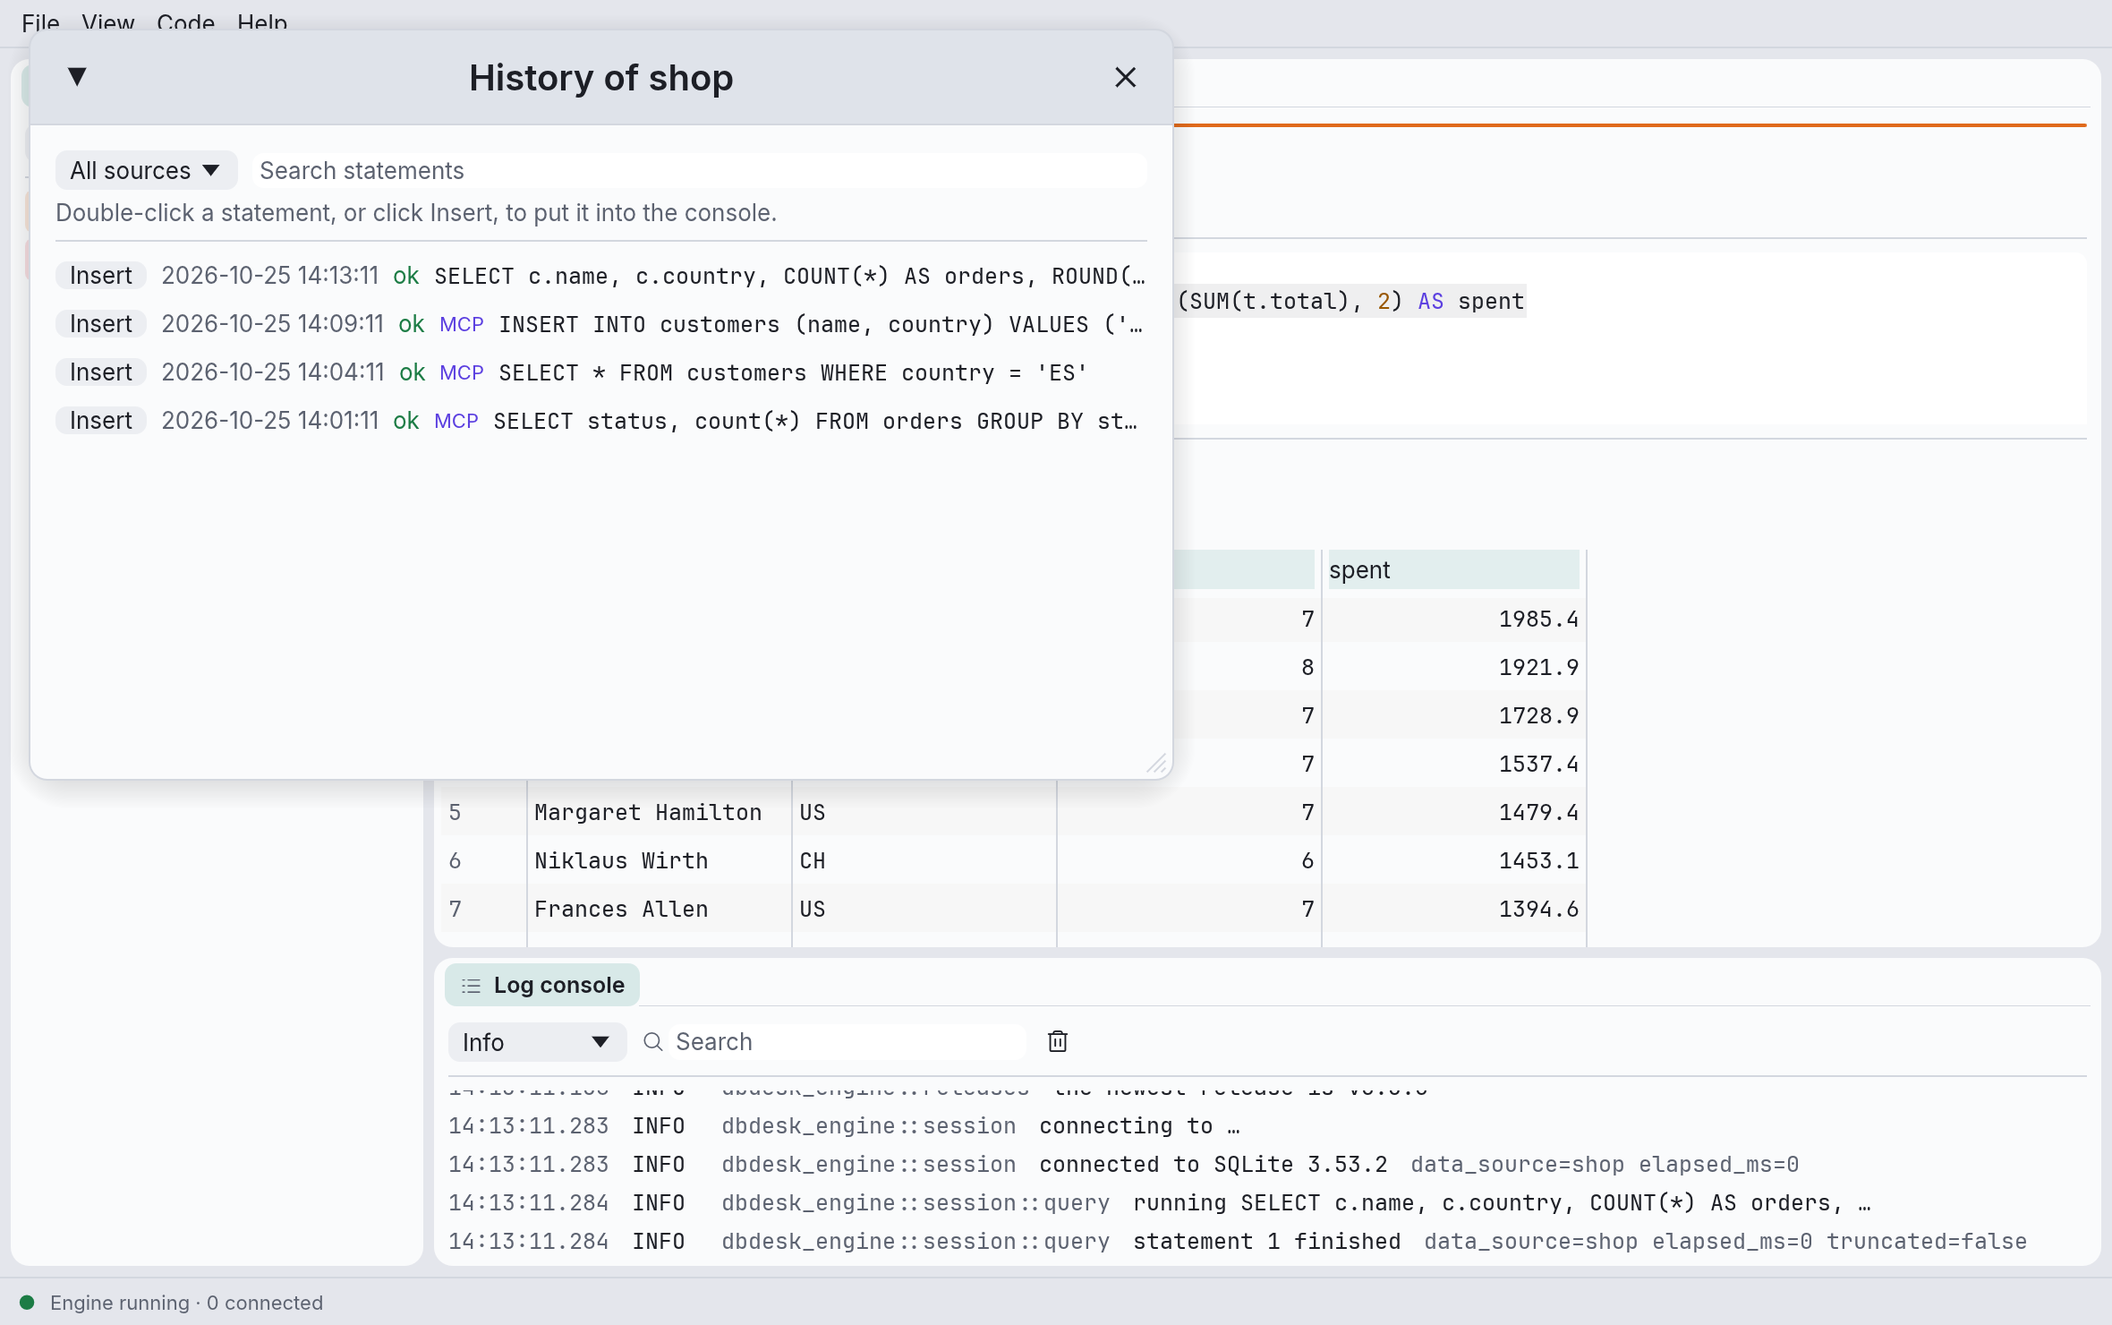
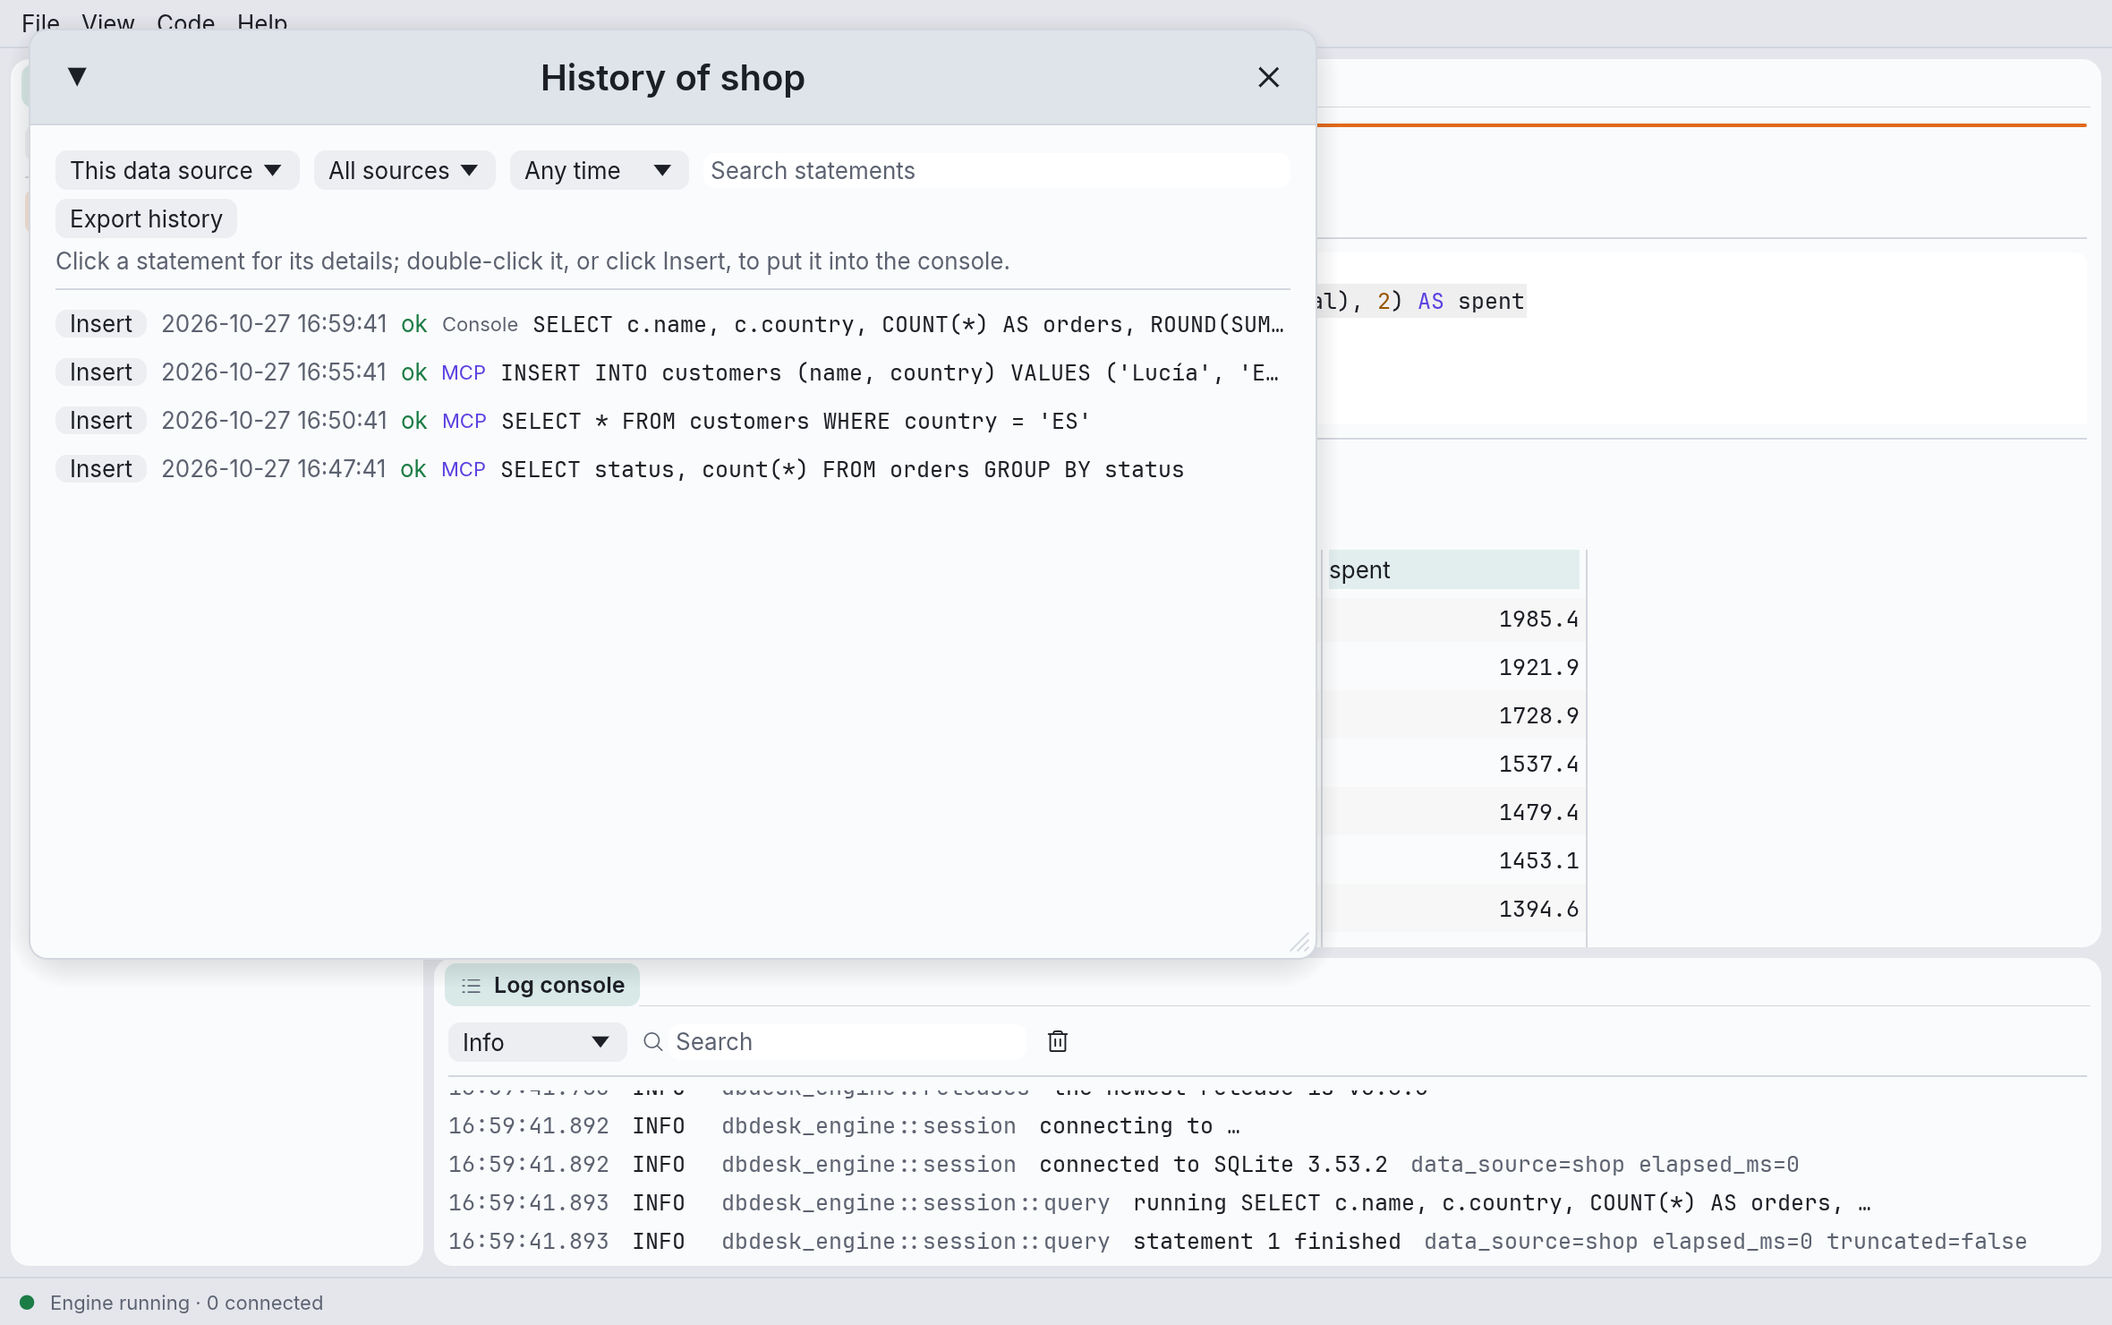
docs(book): the query history as an audit trail (#139)

diff --git a/crates/dbdesk-app/src/screenshots.rs b/crates/dbdesk-app/src/screenshots.rs
@@ -20,8 +20,8 @@ use dbdesk_core::{
     SourceColor, SqliteConfig, TlsMode,
 };
 use dbdesk_store::{
-    DataSourceFile, HistoryEntry, HistoryFile, HistoryOutcome, HistorySource, Project, ProjectFile,
-    ProjectSlug, Projects,
+    DataSourceFile, HistoryEntry, HistoryFile, HistoryOutcome, HistorySource, NamedCell, Project,
+    ProjectFile, ProjectSlug, Projects, ReplacedCell, RowChange, RowChangeKind,
 };
 use egui::accesskit::Role;
 use egui::{Theme, Vec2};
@@ -331,6 +331,13 @@ const SCENES: &[Scene] = &[
         name: "history-mcp",
         data_sources: FixtureSources::Shop,
         play: history_mcp,
+        keeps_pointer: false,
+        needs: &[],
+    },
+    Scene {
+        name: "history-audit",
+        data_sources: FixtureSources::Shop,
+        play: history_audit,
         keeps_pointer: false,
         needs: &[],
     },
@@ -1140,6 +1147,74 @@ fn history_mcp(harness: &mut Harness<'static, DbDeskApp>, fixture: &Fixture) {
     run_all(harness, "8 rows");
     harness.get_by_label("History").click();
     step_until_visible(harness, "MCP");
+}
+
+/// Statements from several places, the grid edit's details open: the value it replaced, and
+/// the statement that puts it back.
+fn history_audit(harness: &mut Harness<'static, DbDeskApp>, fixture: &Fixture) {
+    let data_sources = DataSourceFile::new(fixture.dir.path().join("data_sources.toml"))
+        .load()
+        .unwrap();
+    let shop = data_sources
+        .iter()
+        .find(|data_source| data_source.name == "shop")
+        .unwrap();
+    let history = HistoryFile::new(fixture.dir.path().join("history.sqlite"))
+        .open()
+        .unwrap();
+    let edit = r#"UPDATE "main"."customers" SET "country" = 'PT' WHERE "id" = '3'"#;
+    let change = RowChange {
+        table: "main.customers".to_owned(),
+        kind: RowChangeKind::Updated {
+            key: vec![NamedCell {
+                column: "id".to_owned(),
+                value: Some("3".to_owned()),
+            }],
+            cells: vec![ReplacedCell {
+                column: "country".to_owned(),
+                old: Some("ES".to_owned()),
+                new: Some("PT".to_owned()),
+            }],
+        },
+        revert: Some(
+            r#"UPDATE "main"."customers" SET "country" = 'ES' WHERE "id" = '3'"#.to_owned(),
+        ),
+    };
+    let now = jiff::Timestamp::now();
+    for (minutes_ago, sql, source) in [
+        (
+            30,
+            "CREATE INDEX orders_by_status ON orders (status)",
+            HistorySource::ObjectHelper,
+        ),
+        (
+            21,
+            "SELECT * FROM customers WHERE country = 'ES'",
+            HistorySource::Mcp {
+                client: Some("claude-ai".to_owned()),
+            },
+        ),
+        (8, edit, HistorySource::GridEdit(Some(change))),
+    ] {
+        history
+            .record(&HistoryEntry {
+                data_source: shop.id,
+                executed_at: now - jiff::SignedDuration::from_mins(minutes_ago),
+                sql: sql.to_owned(),
+                duration: Some(std::time::Duration::from_millis(2)),
+                rows: Some(1),
+                outcome: HistoryOutcome::Ok,
+                source,
+            })
+            .unwrap();
+    }
+    open_console(harness, "shop", BEST_CUSTOMERS);
+    run_all(harness, "8 rows");
+    harness.get_by_label("History").click();
+    step_until_visible(harness, "MCP");
+    harness.get_by_label(edit).click();
+    harness.run_ok();
+    step_until_visible(harness, "To put it back:");
 }
 
 fn explorer_filter(harness: &mut Harness<'static, DbDeskApp>, _: &Fixture) {

diff --git a/book/src/history.md b/book/src/history.md
@@ -1,0 +1,92 @@
+# The query history
+
+dbdesk keeps every statement it sends to a database: what you run in a console, what the grid
+submits, what the explorer's helpers run, the statement behind an export, a CSV import, and
+what an AI assistant runs through [`dbdesk mcp`](mcp.md). Each is kept with its data source,
+time, duration, row count and outcome, and with where it came from. Only the statements are
+kept, never the rows they returned.
+
+Open it with **History** in a console's toolbar. It lists the console's data source's
+statements, newest first.
+
+![The history, with a grid edit's details](images/history-audit.png)
+
+## Finding a statement
+
+The row above the list narrows it down:
+
+- **This data source / Every data source**: every data source's statements at once, each named
+  beside its statement. A data source you have since removed shows as *Removed data source*.
+- **All sources** or one kind: **Consoles**, **Grid edits**, **Object helpers**, **Imports**,
+  **Exports**, **MCP clients**, or **Earlier dbdesk** for statements recorded before dbdesk
+  kept where they came from.
+- **Any time**, or the last hour, 24 hours, 7 days or 30 days.
+- **Search statements**: any part of the statement, ignoring case.
+
+The list shows the newest 500 matches; narrow the search to reach older ones. Each statement
+has a tag saying where it came from. **MCP** stands out, since nobody at the keyboard ran
+those; hover it for the assistant's name.
+
+![Statements an assistant ran, beside the console's](images/history-mcp.png)
+
+**Insert** (or a double-click) puts a statement into the console, on a line of its own.
+
+## What a statement did
+
+Click a statement to see it whole below the list, with where it came from: which assistant,
+which file an import read, which table the grid changed.
+
+For a change made in the grid, the details also show the row's key and each value **Before**
+and **After**; for a deleted row, every value it had. **To put it back** is the statement that
+would restore the row: an `UPDATE` with the old values, or an `INSERT` of the deleted row.
+**Copy** it, or **Insert into console** to read it over and run it yourself. Nothing is undone
+for you, and the row may have changed again since. A row added in the grid has none: the
+database chose its key.
+
+A CSV import is one entry, not one per row: the `INSERT` with the table's columns, how many
+rows went in, and the file.
+
+## Passwords stay out
+
+Passwords never reach the history file, whoever sends the statement. In `CREATE ROLE …
+PASSWORD '…'`, `CREATE LOGIN … WITH PASSWORD = '…'`, `CREATE USER … IDENTIFIED BY '…'`,
+DuckDB's `CREATE SECRET`, foreign servers' user mappings, and connection strings (`password=…`,
+`Pwd=…`, `postgresql://user:password@…`), the secret is stored as `'<redacted>'`, and the log
+shows it the same way. A statement put back from the history then needs its password typed in
+again.
+
+dbdesk errs on the side of hiding: after the word `PASSWORD` it hides every quoted value to the
+end of that clause, so `VALID UNTIL '2027-01-01'` after a password shows as `'<redacted>'` too.
+
+## Exporting
+
+**Export history › As CSV…** or **As JSON…** writes everything the current search finds, not
+just the 500 listed, with one record per statement: `executed_at` (UTC), `data_source`,
+`data_source_id`, `source` (`console`, `grid`, `object`, `import`, `export`, `mcp`, or `app`
+for earlier dbdesk), `detail` (the assistant or the file), `outcome`, `duration_ms`, `rows`,
+`sql`, and `change`, a grid edit's values as JSON.
+
+## How long it is kept
+
+By default the history keeps everything. **View › Settings… › Query history** limits it:
+
+- **Keep statements for** 30 days, 90 days, a year or two years;
+- **Keep per data source** the newest 10,000, 100,000 or 1,000,000 statements.
+
+Older statements are deleted when dbdesk starts and as soon as you change the setting, a little
+at a time so a `dbdesk mcp` writing the same file never waits. Other values can be set by hand
+in `settings.toml`:
+
+```toml
+[history]
+max_age_days = 180
+max_per_data_source = 25000
+```
+
+## Not a tamper-proof audit
+
+The history is a file in your settings folder (see
+[Where dbdesk keeps its files](files.md)): anyone who can open it can change or delete it, and
+statements sent by other tools never reach it. When you need an audit you can rely on, set it up
+on the server: `pgaudit` on PostgreSQL, SQL Server Audit, or the audit plugins of MySQL and
+MariaDB.

diff --git a/docs/roadmap.md b/docs/roadmap.md
@@ -649,6 +649,31 @@ The gaps that keep dbdesk from being an everyday tool. The full plan is in
   - **W4e:** retention by age and per data source, pruned in short batches beside other
     processes;
   - **W4f:** export of a search as CSV or JSON.
+
+  **W4 demo note:** built. Edit a customer's country in the grid and **Submit**, then open
+  **History**: the `UPDATE` is tagged **Grid**; click it and the details say *Submitted from
+  the grid, on main.customers*, *Changed the row where id = 3*, country **Before** `ES`
+  **After** `PT`, and **To put it back** `UPDATE "main"."customers" SET "country" = 'ES' WHERE
+  "id" = '3'`, which **Insert into console** puts in the console to review and run. Each entry
+  is tagged **Console**, **Grid**, **Object** (the explorer's helpers), **Import** (one entry
+  per CSV file, with the file on hover), **Export** or **MCP** (the client's name, from its
+  `initialize`, on hover); rows from before W4 read as **dbdesk**. Pick **Every data source**
+  and **MCP clients**: an assistant's statements on any data source show, each named, a removed
+  data source as *Removed data source*; **Last hour** narrows them. `CREATE ROLE app PASSWORD
+  's3cret'` (or `IDENTIFIED BY`, `CREATE SECRET`, `password=` in a connection string) is stored
+  and logged as `'<redacted>'`. **Export history › As JSON…** writes every match, without the
+  500-row limit. In **View › Settings…**, **Keep statements for: a year** saves
+  `[history] max_age_days = 365` and deletes older statements at once, in 2,000-row
+  transactions, and again at every start. The file is migrated to schema version 2 (`origin`,
+  `detail`, `changes` and two indexes; old rows untouched, `source` still `app`/`mcp` for an
+  older dbdesk sharing the file). Full-text search was measured and left out: on a million
+  statements FTS5 doubled the file and took 10 s to build under the write lock. Covered by store
+  tests (migrations from 0.2.0 and pre-W4 files, two processes writing and migrating, pruning
+  while another process writes, every search filter and its query plan, the secrets guard
+  reading the file's bytes, export), engine tests on SQLite (each recorder's provenance, a grid
+  edit's change, secrets, retention at start-up and on save, export), the MCP stdio test (the
+  client's name), and kittest tests of the tags and filter, a grid edit's details and revert,
+  every data source and a period, the retention setting, and the export.
 - **W5 — Power in the grid:** designed in [Power in the grid](grid-power.md), in layers:
   - **W5a:** insert and delete rows, submitted with cell edits all or none, and recorded in the
     history;

diff --git a/docs/history-audit.md b/docs/history-audit.md
@@ -1,6 +1,6 @@
 # History as an audit trail
 
-Status: **planned** (2026-10-27). This is the design of W4 in
+Status: **built** (2026-10-27). This is the design of W4 in
 [A well-rounded app](well-rounded.md#w4--history-as-an-audit-trail); the
 [roadmap](roadmap.md#well-rounded-track) tracks it.
 
@@ -61,7 +61,7 @@ for older readers):
 | Variant | Recorded by | `source` |
 | --- | --- | --- |
 | `Console` | a console's run | `app` |
-| `GridEdit(RowChange)` | Submit in the grid, one per row (see W4c) | `app` |
+| `GridEdit(Option<RowChange>)` | Submit in the grid, one per row (see W4c); `None` for a change this dbdesk can't read | `app` |
 | `ObjectHelper` | `ApplyDdl`: the explorer's create, alter, drop, rename and copy dialogs | `app` |
 | `Import { file }` | Import CSV, one entry per import | `app` |
 | `Export` | Export › All rows, the statement it ran | `app` |
@@ -167,7 +167,9 @@ UI thread. Retention keeps it from growing without bound.
 
 ## W4e — Retention
 
-`settings.toml` gets a `[history]` table, set in View › Settings:
+`settings.toml` gets a `[history]` table, set in View › Settings from a few lengths (30 days to
+two years; 10,000 to 1,000,000 per data source) rather than typed, since every change saves
+and prunes at once:
 
 ```toml
 [history]
@@ -188,7 +190,7 @@ max_per_data_source = 50000
 
 ## W4f — Export
 
-**Export…** in the History window writes the current search, without its 500-row limit, as
+**Export history › As CSV… / As JSON…** in the History window writes the current search, without its 500-row limit, as
 CSV or JSON through the store's `ExportWriter`: time, data source (name and id), kind, detail,
 outcome, duration, rows, the SQL, and a grid edit's change as JSON. The engine streams it
 from the history thread, a page at a time, so a large history never sits in memory.

diff --git a/book/src/files.md b/book/src/files.md
@@ -13,7 +13,7 @@ dbdesk keeps everything in one folder per platform:
 | `data_sources.toml` (settings folder) | Your data sources. No passwords. |
 | `projects.toml` (settings folder) | Your projects. Which project a data source is in is written in `data_sources.toml`. |
 | `consoles/<data source id>/*.sql` (settings folder) | Your query consoles, one file each. See [Query consoles](consoles.md#consoles-are-saved). |
-| `history.sqlite` (settings folder) | Every statement your consoles and MCP clients ran, with its time, duration and outcome. |
+| `history.sqlite` (settings folder) | Every statement dbdesk and MCP clients sent, with its time, duration, outcome and where it came from (see [The query history](history.md)). |
 | `keymap.toml` (settings folder) | Your shortcuts, if you changed any. See [Keyboard shortcuts](shortcuts.md#changing-them). |
 | `settings.toml` (settings folder) | Your choices in **View → Settings…**, such as how SQL is formatted and whether to check for updates. |
 | `app.ron` (window state folder) | The window's size and position, the panel layout, the theme you picked. |

diff --git a/book/src/mcp.md b/book/src/mcp.md
@@ -73,7 +73,7 @@ it asks again after each update.
 
 Ask the assistant to list the project's data sources, then to describe a table and query it.
 Each statement it runs shows up in the data source's **History**, marked **MCP** (see
-[History](consoles.md#history)).
+[The query history](history.md)).
 
 ## What the assistant can do
 
@@ -175,7 +175,8 @@ SQLite files have no logins, so for them dbdesk's own checks are all there is.
   next to the app's (see [Where dbdesk keeps its files](files.md)). It also logs to standard
   error, which most clients keep in their own logs.
 - **The query history.** Every statement the server sends to a database is in the data
-  source's history, marked **MCP**, beside your own. The History window can show just those.
+  source's history, marked **MCP** with the assistant's name, beside your own. The History
+  window can show just those, and export them (see [The query history](history.md)).
 
 ## When it doesn't work
 

diff --git a/book/src/consoles.md b/book/src/consoles.md
@@ -315,12 +315,9 @@ them (`t` for a PostgreSQL boolean, `{1,2}` for an array).
 Every statement a console runs is recorded with its time, duration, row count and outcome.
 **History** in the toolbar lists the data source's statements, newest first; type to search
 them, and click **Insert** (or double-click) to put one into the console on a line of its own.
-
-Statements an AI assistant ran through [`dbdesk mcp`](mcp.md) are in the same history, marked
-**MCP**. The menu next to the search shows all of them, only your own (**dbdesk**), or only
-the assistants' (**MCP clients**).
-
-![The history, with statements an assistant ran](images/history-mcp.png)
+[The query history](history.md) covers the rest: statements from the grid, the explorer and AI
+assistants, a grid edit's old values, searching every data source, exporting, and how long
+statements are kept.
 
 ## Errors
 

diff --git a/book/src/table-data.md b/book/src/table-data.md
@@ -39,7 +39,8 @@ generated id.
 
 On a **careful** data source, Submit first asks, naming the data source and what will happen:
 *this inserts 1 row, updates 2 edited rows and deletes 1 row*. A **read-only** data source's
-rows can't be changed. Every statement Submit sends is in the console's **History**.
+rows can't be changed. Every statement Submit sends is in the console's **History**, with the
+values it replaced (see [The query history](history.md#what-a-statement-did)).
 
 ## Following foreign keys
 

diff --git a/book/src/objects.md b/book/src/objects.md
@@ -75,7 +75,7 @@ production, you also type the object's name before **Execute** can be clicked:
 
 ![Drop on a red data source, waiting for the table's name](images/drop-table.png)
 
-Every statement a helper runs is kept in the [query history](consoles.md#history), like those
+Every statement a helper runs is kept in the [query history](history.md), like those
 you run in a console.
 
 ## New table

diff --git a/book/src/SUMMARY.md b/book/src/SUMMARY.md
@@ -10,6 +10,7 @@
 - [Views and schemas](views-schemas.md)
 - [Query consoles](consoles.md)
 - [Working with table data](table-data.md)
+- [The query history](history.md)
 - [Keyboard shortcuts](shortcuts.md)
 - [Connecting an AI assistant](mcp.md)
 - [Where dbdesk keeps its files](files.md)
